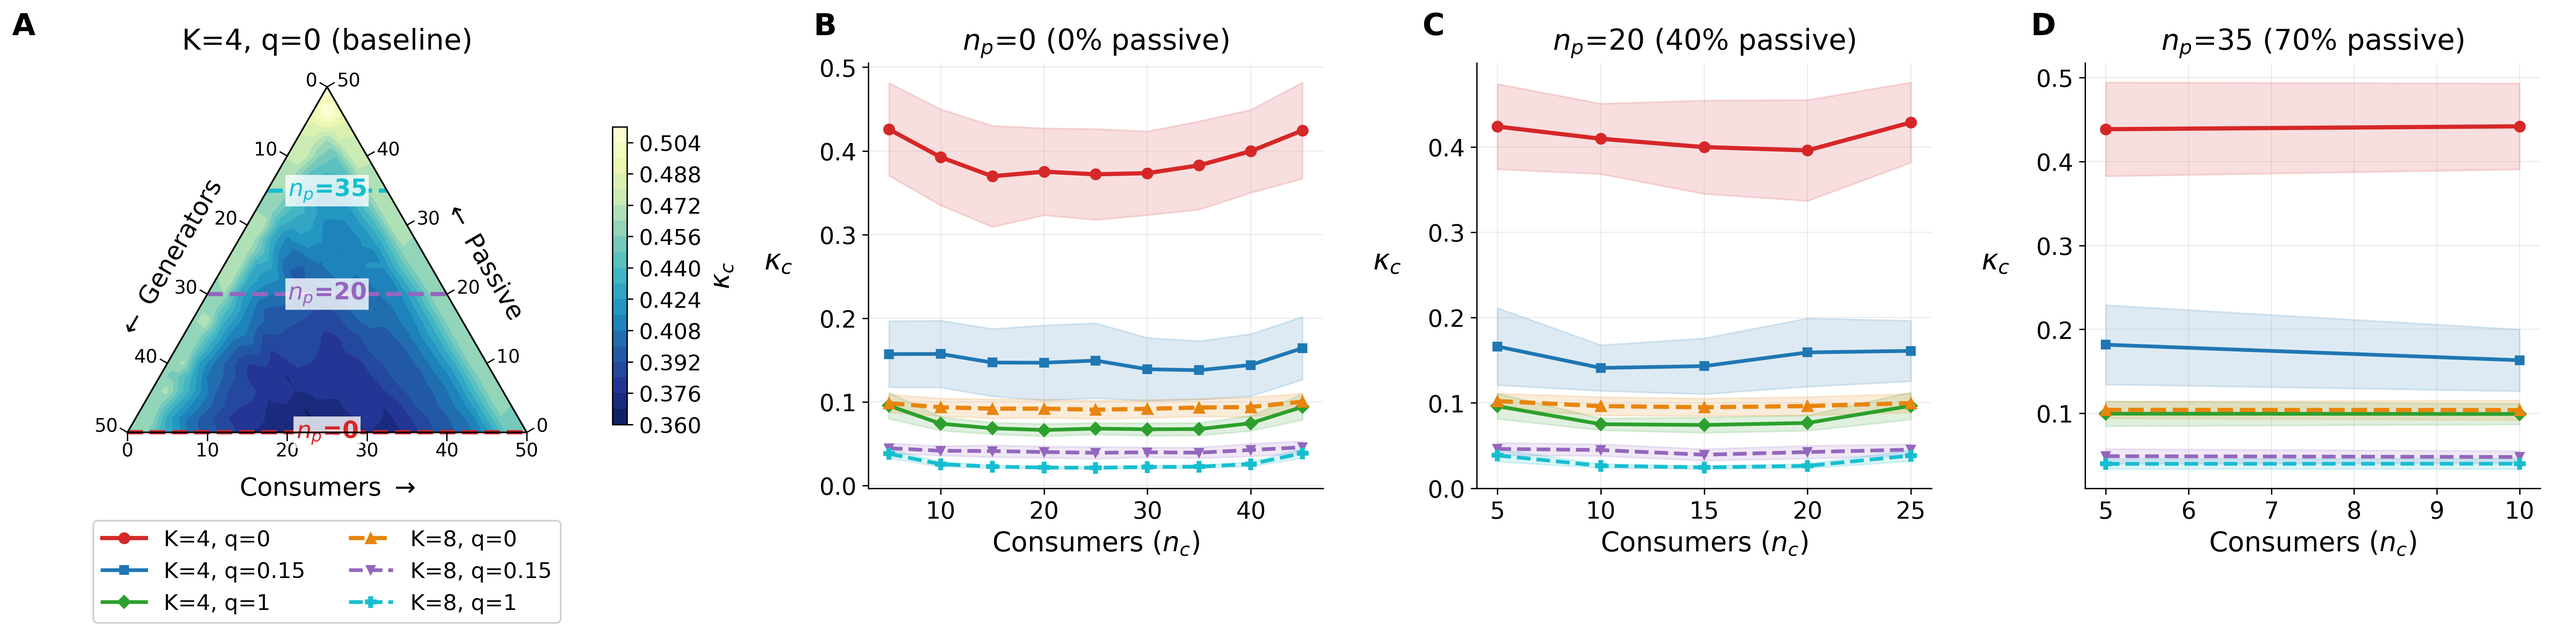
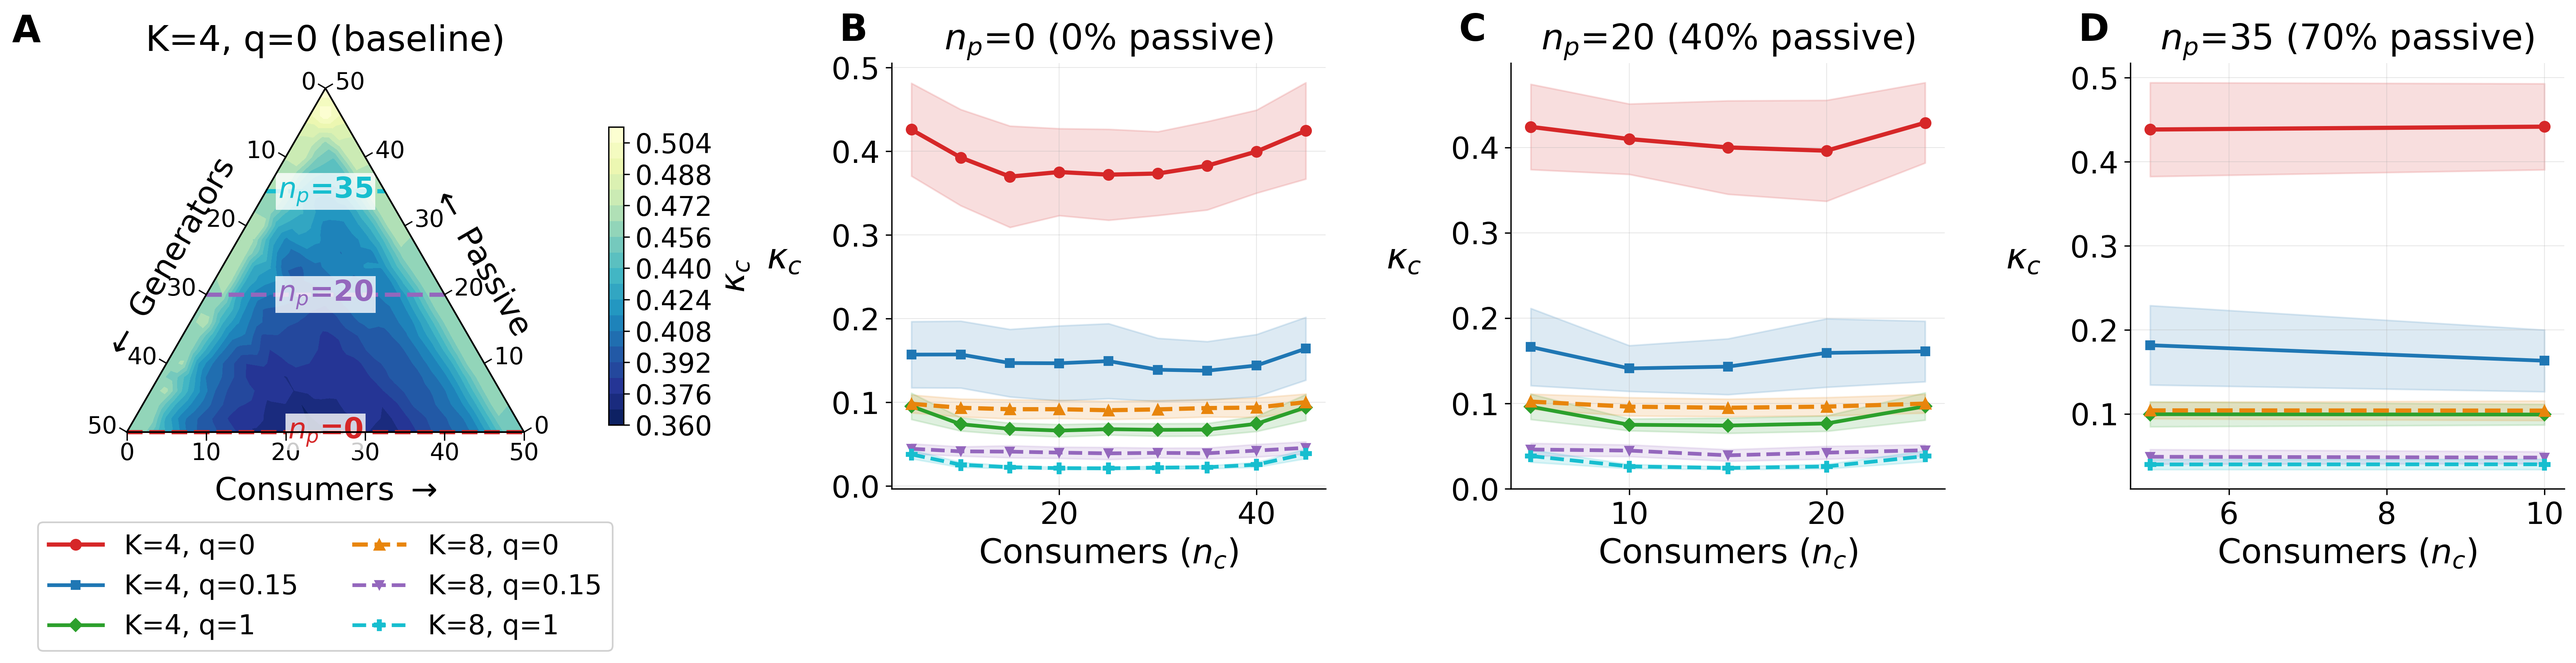
udate

diff --git a/ratio_scan/plot_passive_impact.py b/ratio_scan/plot_passive_impact.py
@@ -59,12 +59,12 @@ NP_SECTIONS = [
 _DPI = 300
 
 plt.rcParams.update({
-    "font.size": 16,
-    "axes.titlesize": 17,
-    "axes.labelsize": 16,
-    "xtick.labelsize": 14,
-    "ytick.labelsize": 14,
-    "legend.fontsize": 13,
+    "font.size": 20,
+    "axes.titlesize": 21,
+    "axes.labelsize": 20,
+    "xtick.labelsize": 18,
+    "ytick.labelsize": 18,
+    "legend.fontsize": 16,
 })
 
 
@@ -97,12 +97,12 @@ def draw_simplex_frame(ax, total=N_TOTAL):
 
     # 边标签
     mx, my = 0.5 * (0 + 0.5), 0.5 * (0 + H_TRI)
-    ax.text(mx - 0.08, my, r"$\leftarrow$ Generators", fontsize=15,
+    ax.text(mx - 0.08, my, r"$\leftarrow$ Generators", fontsize=19,
             ha='center', va='center', rotation=60)
-    ax.text(0.5, -0.07, r"Consumers $\rightarrow$", fontsize=15,
+    ax.text(0.5, -0.07, r"Consumers $\rightarrow$", fontsize=19,
             ha='center', va='top')
     mx, my = 0.5 * (1 + 0.5), 0.5 * (0 + H_TRI)
-    ax.text(mx + 0.08, my, r"$\leftarrow$ Passive", fontsize=15,
+    ax.text(mx + 0.08, my, r"$\leftarrow$ Passive", fontsize=19,
             ha='center', va='center', rotation=-60)
 
     ax.set_xlim(-0.06, 1.06)
@@ -184,8 +184,8 @@ def plot_panel_a(ax):
         tcf.set_clip_path(clip_tri)
 
         cb = plt.colorbar(tcf, ax=ax, shrink=0.7, pad=0.02)
-        cb.set_label(r'$\kappa_c$', fontsize=16)
-        cb.ax.tick_params(labelsize=13)
+        cb.set_label(r'$\kappa_c$', fontsize=20)
+        cb.ax.tick_params(labelsize=16)
 
     # ── 三角形边框 ──
     ax.plot([0, 1, 0.5, 0], [0, 0, H_TRI, 0], 'k-', lw=1.0, zorder=5)
@@ -198,7 +198,7 @@ def plot_panel_a(ax):
     for v in tick_vals:
         x, y = ternary_to_cart(N_TOTAL - v, v, 0)
         ax.plot([x, x], [y, y - tl], 'k-', lw=0.8, zorder=5, clip_on=False)
-        ax.text(x, y - tl - 0.005, str(v), fontsize=11,
+        ax.text(x, y - tl - 0.005, str(v), fontsize=14,
                 ha='center', va='top')
 
     # 左边 (Generators n_g): BL(50) → Top(0)
@@ -209,7 +209,7 @@ def plot_panel_a(ax):
         ax.plot([x, x + tl * nx_l], [y, y + tl * ny_l],
                 'k-', lw=0.8, zorder=5, clip_on=False)
         ax.text(x + (tl + 0.008) * nx_l, y + (tl + 0.008) * ny_l,
-                str(v), fontsize=11, ha='right', va='center')
+                str(v), fontsize=14, ha='right', va='center')
 
     # 右边 (Passive n_p): BR(0) → Top(50)
     # 向外法向量: (H_TRI, 0.5)
@@ -219,16 +219,16 @@ def plot_panel_a(ax):
         ax.plot([x, x + tl * nx_r], [y, y + tl * ny_r],
                 'k-', lw=0.8, zorder=5, clip_on=False)
         ax.text(x + (tl + 0.008) * nx_r, y + (tl + 0.008) * ny_r,
-                str(v), fontsize=11, ha='left', va='center')
+                str(v), fontsize=14, ha='left', va='center')
 
     # ── 边标签 ──
     mx, my = 0.5 * (0 + 0.5), 0.5 * (0 + H_TRI)
-    ax.text(mx - 0.14, my, r"$\leftarrow$ Generators", fontsize=15,
+    ax.text(mx - 0.14, my, r"$\leftarrow$ Generators", fontsize=19,
             ha='center', va='center', rotation=60)
-    ax.text(0.5, -0.11, r"Consumers $\rightarrow$", fontsize=15,
+    ax.text(0.5, -0.11, r"Consumers $\rightarrow$", fontsize=19,
             ha='center', va='top')
     mx, my = 0.5 * (1 + 0.5), 0.5 * (0 + H_TRI)
-    ax.text(mx + 0.14, my, r"$\leftarrow$ Passive", fontsize=15,
+    ax.text(mx + 0.14, my, r"$\leftarrow$ Passive", fontsize=19,
             ha='center', va='center', rotation=-60)
 
     # ── 截面线标注 ──
@@ -243,7 +243,7 @@ def plot_panel_a(ax):
                 lw=2.5, zorder=3)
         xm = 0.5 * (x0 + x1)
         ym = 0.5 * (y0 + y1)
-        ax.text(xm, ym, f"$n_p$={np_val}", fontsize=14, color=section_colors[i],
+        ax.text(xm, ym, f"$n_p$={np_val}", fontsize=17, color=section_colors[i],
                 ha='center', va='center', fontweight='bold',
                 bbox=dict(fc='white', ec='none', alpha=0.8, pad=1.5))
 
@@ -251,7 +251,7 @@ def plot_panel_a(ax):
     ax.set_ylim(-0.14, H_TRI + 0.06)
     ax.set_aspect('equal')
     ax.axis('off')
-    ax.set_title("K=4, q=0 (baseline)", fontsize=17, pad=8)
+    ax.set_title("K=4, q=0 (baseline)", fontsize=21, pad=8)
 
 
 # ====================================================================
@@ -296,10 +296,10 @@ def plot_section_panel(ax, df, np_val, pct_str, show_legend=False):
     ax.spines['right'].set_visible(False)
     ax.grid(True, alpha=0.3, lw=0.5)
 
-    ax.set_xlabel("Consumers ($n_c$)", fontsize=16)
-    ax.set_ylabel(r"$\kappa_c$", fontsize=17, rotation=0, labelpad=24)
-    ax.set_title(f"$n_p$={np_val} ({pct_str} passive)", fontsize=17, pad=8)
-    ax.tick_params(labelsize=14)
+    ax.set_xlabel("Consumers ($n_c$)", fontsize=20)
+    ax.set_ylabel(r"$\kappa_c$", fontsize=21, rotation=0, labelpad=28)
+    ax.set_title(f"$n_p$={np_val} ({pct_str} passive)", fontsize=21, pad=8)
+    ax.tick_params(labelsize=18)
 
     if show_legend:
         return ax.get_legend_handles_labels()
@@ -320,14 +320,14 @@ def main():
     fig = plt.figure(figsize=(22, 4.5))
     gs = fig.add_gridspec(1, 4, width_ratios=[1.5, 1, 1, 1],
                           left=0.04, right=0.98, top=0.92, bottom=0.14,
-                          wspace=0.30)
+                          wspace=0.38)
     axes = [fig.add_subplot(gs[0, i]) for i in range(4)]
 
     # Panel A: simplex heatmap
     print("绘制 Panel A: simplex heatmap ...")
     plot_panel_a(axes[0])
     axes[0].text(-0.08, 1.12, "A", transform=axes[0].transAxes,
-                 fontsize=18, fontweight='bold', va='top', ha='left')
+                 fontsize=22, fontweight='bold', va='top', ha='left')
 
     # Panels B-D: 截面线图
     panel_axes = [axes[1], axes[2], axes[3]]
@@ -341,12 +341,12 @@ def main():
             legend_info = result
         panel_axes[i].text(-0.12, 1.12, panel_labels[i],
                            transform=panel_axes[i].transAxes,
-                           fontsize=18, fontweight='bold', va='top', ha='left')
+                           fontsize=22, fontweight='bold', va='top', ha='left')
 
     # 将 legend 放到 Panel A 下方
     if legend_info:
         handles, labels = legend_info
-        axes[0].legend(handles, labels, fontsize=13, loc='upper center',
+        axes[0].legend(handles, labels, fontsize=16, loc='upper center',
                        bbox_to_anchor=(0.5, -0.05), ncol=2, framealpha=0.9)
 
     out_path = RESULTS_DIR / "fig_passive_impact.png"
